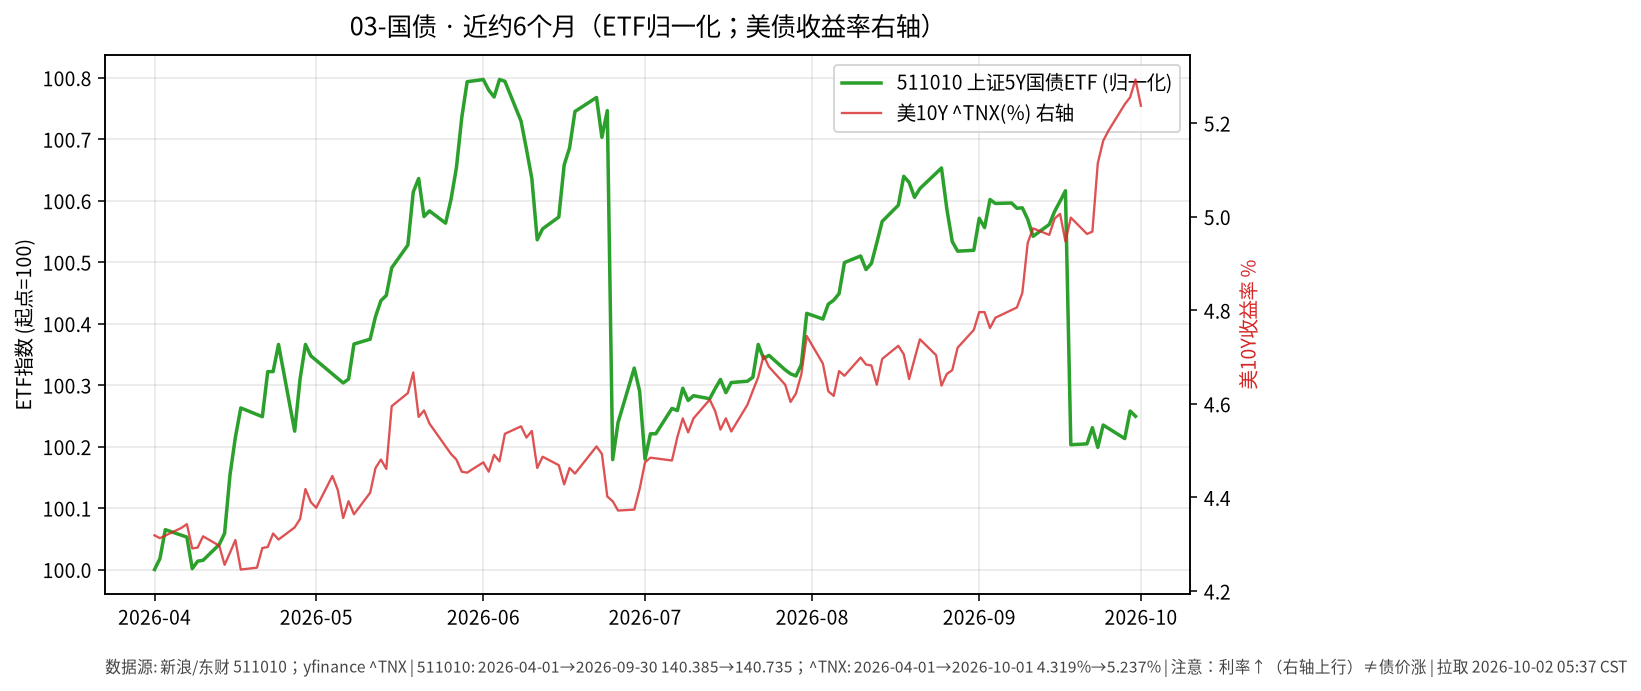
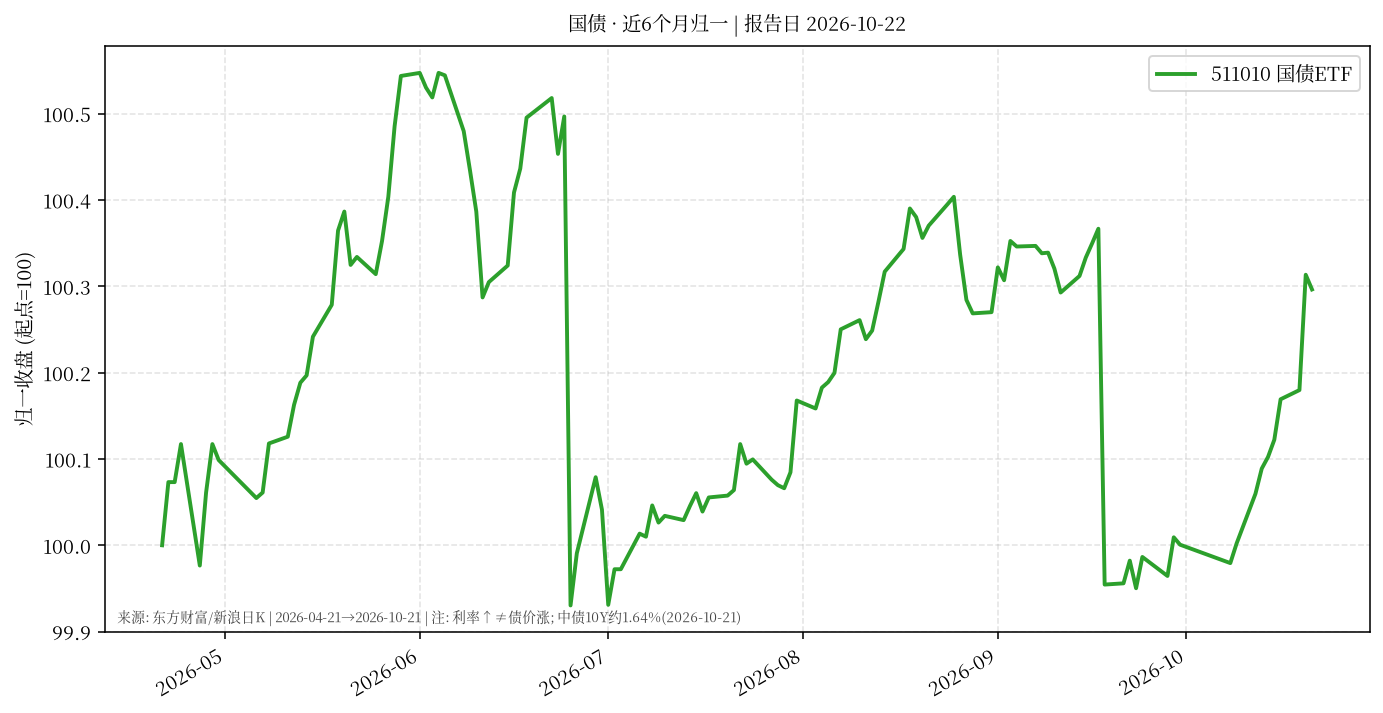
docs: 五门类投资日报 2026-10-22

diff --git a/01-黄金/日报/2026-10-22.md b/01-黄金/日报/2026-10-22.md
@@ -1,0 +1,29 @@
+# 黄金 · 日报 2026-10-22
+
+## 市场状态
+- **报告日**：2026-10-22（周四，Asia/Shanghai）
+- **数据截止交易日**：美股/GLD **2026-10-21**；A 股当日早盘未收盘，境内相关仅作对照。
+- GLD 收盘 **378.95**，较前一交易日 **+0.34%**（Yahoo Finance，复权收盘）。
+- 沪金 AU9999：有限样本显示 **2026-10-21** 收盘约 **887.50** 元/克；**2026-10-22** 盘中仍有报价，本报告不以未收盘价作正式对比。
+
+## 关键数据
+| 标的 | 最近收盘日 | 收盘 | 日涨跌 | 近约6个月（归一起点日） | 区间涨跌 |
+|------|------------|------|--------|-------------------------|----------|
+| GLD | 2026-10-21 | 378.95 | +0.34% | 2026-04-21→2026-10-21 | -11.78% |
+| AU9999（对照） | 2026-10-21 | 887.50 | — | 完整6个月序列本次拉取失败 | — |
+
+![近6个月走势](./charts/01-黄金-6m.png)
+
+## 简要解读
+- 美元计价黄金 ETF（GLD）在 **2026-10-21** 小幅回升（约 +0.34%），仍处近半年从高位回撤后的区间内（约6个月归一后约 **-11.8%**）。
+- 价格变动同时受美元、实际利率与风险情绪影响；本页只描述已发生报价，不推断下一步方向。
+
+## 关注点与风险
+- 汇率：境内投资者若以人民币计量，还需叠加美元兑人民币变动，账面涨跌可能与 GLD 美元涨跌不一致。
+- 波动：黄金阶段性回撤后波动仍可能放大；ETF 净值/溢价、交易时段与现货不完全同步。
+- 数据完整性：中国 Au 代理长序列本次接口不稳定，图中仅绘 GLD。
+
+## 来源与时间
+- GLD：Yahoo Finance（yfinance，auto_adjust=True），拉取时间约 2026-10-22 05:45 Asia/Shanghai
+- AU9999：东方财富 push2his 短样本（完整 lmt=140 多次 SSL 失败）
+- 图表：Python matplotlib，收盘价归一到起点=100

diff --git a/05-高股息/日报/2026-10-22.md b/05-高股息/日报/2026-10-22.md
@@ -1,0 +1,29 @@
+# 高股息 · 日报 2026-10-22
+
+## 市场状态
+- **报告日**：2026-10-22；**数据截止交易日**：**2026-10-21**。
+- 红利 ETF 510880 收 **3.385**（**-0.91%**）。
+- 招商银行 600036 收 **42.28**（**-0.56%**）；长江电力 600900 收 **29.57**（**-0.40%**）。
+- 三者同日均为下跌，属已发生的价格事实；分红与价格涨跌是两回事（股息率随股价变动）。
+
+## 关键数据
+| 标的 | 收盘日 | 收盘 | 日涨跌 | 约6个月 | 区间涨跌 |
+|------|--------|------|--------|---------|----------|
+| 510880 红利ETF | 2026-10-21 | 3.385 | -0.91% | 2026-04-21→2026-10-21 | +3.68% |
+| 600036 招商银行 | 2026-10-21 | 42.28 | -0.56% | 2026-04-21→2026-10-21 | +6.04% |
+| 600900 长江电力 | 2026-10-21 | 29.57 | -0.40% | 2026-04-21→2026-10-21 | +8.99% |
+
+![近6个月走势](./charts/05-高股息-6m.png)
+
+## 简要解读
+- 近半年归一：510880 约 **+3.68%**，招行约 **+6.04%**，长电约 **+8.99%**（个股路径强于宽基红利 ETF，不代表未来）。
+- 2026-10-21 三者同步回调，更接近风险偏好/板块日内波动，而非单一公司公告能解释的全部。
+
+## 关注点与风险
+- 银行与公用事业对利率、监管、来水/电价等基本面敏感；高股息不保证本金稳定。
+- 510880 成分与权重定期调整；个股与 ETF 走势可显著偏离。
+- 600036/600900 本次主要经新浪日 K，标注为交易所公布价路径；与前复权序列在除权日可能不一致。
+
+## 来源与时间
+- 510880：东方财富日 K（fqt=1）；600036/600900：新浪 CN_MarketData K 线（EM 接口不稳定时回退）
+- 截止 2026-10-21；图表 matplotlib，起点=100

diff --git a/02-中短债/日报/2026-10-22.md b/02-中短债/日报/2026-10-22.md
@@ -1,0 +1,29 @@
+# 中短债 · 日报 2026-10-22
+
+## 市场状态
+- **报告日**：2026-10-22；**A 股数据截止交易日**：**2026-10-21**（周四早间报告，当日未收盘）。
+- 短融 ETF 511360 收 **114.077**（日涨跌 **+0.007%**）。
+- 159649（国开债 ETF 华安）收 **110.749**（日涨跌 **-0.005%**）。
+- 公开债市报道（新华财经 2026-10-21）：银行间利率债收益率多数小幅回升；短端资金利率仍偏松。仅作背景，非交易建议。
+
+## 关键数据
+| 标的 | 收盘日 | 收盘 | 日涨跌 | 约6个月区间 | 区间涨跌 |
+|------|--------|------|--------|-------------|----------|
+| 511360 短融ETF海富通 | 2026-10-21 | 114.077 | +0.007% | 2026-04-21→2026-10-21 | +0.64% |
+| 159649 国开债ETF华安 | 2026-10-21 | 110.749 | -0.005% | 2026-04-21→2026-10-21 | +1.07% |
+
+![近6个月走势](./charts/02-中短债-6m.png)
+
+## 简要解读
+- 两条曲线近半年均呈缓慢抬升（归一后约 **+0.64%** / **+1.07%**），单日波动极小，符合短久期利率品种特征。
+- 159649 跟踪国开债，久期与信用暴露通常高于纯短融；与 511360 并排只为对照路径，不暗示优劣。
+
+## 关注点与风险
+- 利率上行时净值可能回撤（即使票息仍为正）。
+- ETF 折溢价、流动性与跟踪误差；节假日后跳空可能出现。
+- 杠杆与加久期会放大波动——本报告不讨论、不鼓励此类操作。
+
+## 来源与时间
+- 东方财富 push2his 日 K（klt=101，fqt=1 前复权），截止 2026-10-21
+- 债市背景：新华财经《债市日报：10月21日》、中债收益率曲线公开页
+- 图表：matplotlib，起点归一=100

diff --git a/03-国债/日报/2026-10-22.md b/03-国债/日报/2026-10-22.md
@@ -1,0 +1,29 @@
+# 国债 · 日报 2026-10-22
+
+## 市场状态
+- **报告日**：2026-10-22；**数据截止交易日**：**2026-10-21**。
+- 国债 ETF 511010 收 **141.151**，日涨跌 **-0.017%**。
+- 中债国债收益率曲线 **10 年期** 2026-10-21 报 **1.6412%**，较上日约 **+0.58 BP**（中国债券信息网/中债国债收益率曲线）。
+- **提醒**：利率上行（曲线抬升）通常对应既有国债价格承压；图中 ETF 净值涨 ≠ 收益率涨。
+
+## 关键数据
+| 标的 | 收盘日 | 收盘/收益率 | 日变化 | 约6个月 | 区间 |
+|------|--------|-------------|--------|---------|------|
+| 511010 | 2026-10-21 | 141.151 | -0.017% | 2026-04-21→2026-10-21 | +0.30% |
+| 中债10Y国债收益率 | 2026-10-21 | 1.6412% | 约+0.58 BP | — | 公开曲线单日点 |
+
+![近6个月走势](./charts/03-国债-6m.png)
+
+## 简要解读
+- 511010 近半年归一涨跌约 **+0.30%**，路径相对平缓；2026-10-21 小幅回落与当日利率债收益率多数上行的公开描述方向一致。
+- 久期越长，对收益率变化越敏感；本页只记录 ETF 收盘与曲线点位。
+
+## 关注点与风险
+- 利率风险：收益率上行 → 债券市价下行。
+- 通胀预期、货币政策与供需（供给放量等）都会改变曲线形态。
+- 本次未能稳定拉取 10Y 收益率完整日序，故图中未叠加收益率轴。
+
+## 来源与时间
+- 511010：东方财富/新浪日 K；截止 2026-10-21
+- 收益率：yield.chinabond.com.cn 公开表（2026-10-21）
+- 图表：matplotlib，ETF 收盘归一=100

diff --git a/04-纯债/日报/2026-10-22.md b/04-纯债/日报/2026-10-22.md
@@ -1,0 +1,28 @@
+# 纯债 · 日报 2026-10-22
+
+## 市场状态
+- **报告日**：2026-10-22；**数据截止交易日**：**2026-10-21**。
+- 城投债 ETF 511220 收 **10.464**（**+0.019%**）。
+- 政金债 ETF 511520 收 **119.858**（**+0.023%**）。
+- 信用利差与利率中枢共同影响净值；当日公开描述为利率债收益率略升、资金面偏松。
+
+## 关键数据
+| 标的 | 收盘日 | 收盘 | 日涨跌 | 约6个月 | 区间涨跌 |
+|------|--------|------|--------|---------|----------|
+| 511220 城投债ETF海富通 | 2026-10-21 | 10.464 | +0.019% | 2026-04-21→2026-10-21 | +1.31% |
+| 511520 政金债ETF富国 | 2026-10-21 | 119.858 | +0.023% | 2026-04-21→2026-10-21 | +2.18% |
+
+![近6个月走势](./charts/04-纯债-6m.png)
+
+## 简要解读
+- 近半年归一：511220 约 **+1.31%**，511520 约 **+2.18%**；政金债弹性略高于城投短端品种（路径对比，非优劣判断）。
+- 城投/政金信用与久期结构不同，回撤与修复节奏可能分化。
+
+## 关注点与风险
+- 信用事件、区域财政与估值修复预期会导致利差波动。
+- 流动性分层：ETF 二级市场成交冷清时折溢价可能扩大。
+- 不讨论加杠杆套息；只陈述已实现净值路径。
+
+## 来源与时间
+- 东方财富 push2his 日 K（fqt=1），截止 2026-10-21
+- 图表：matplotlib，起点=100
